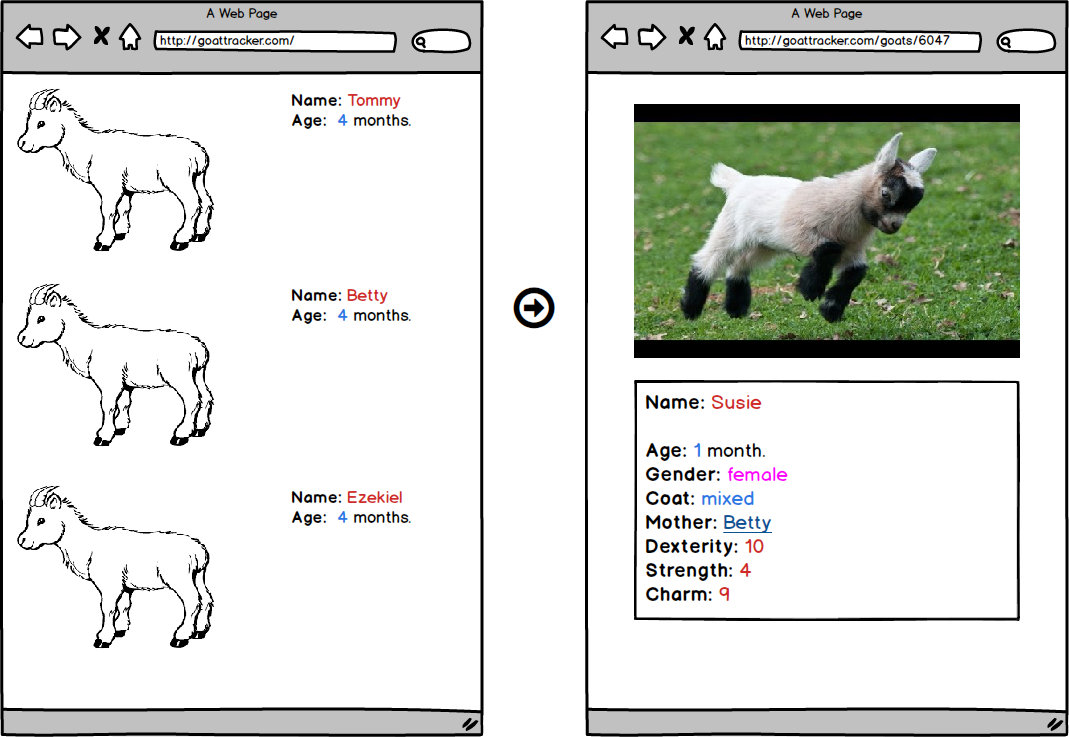
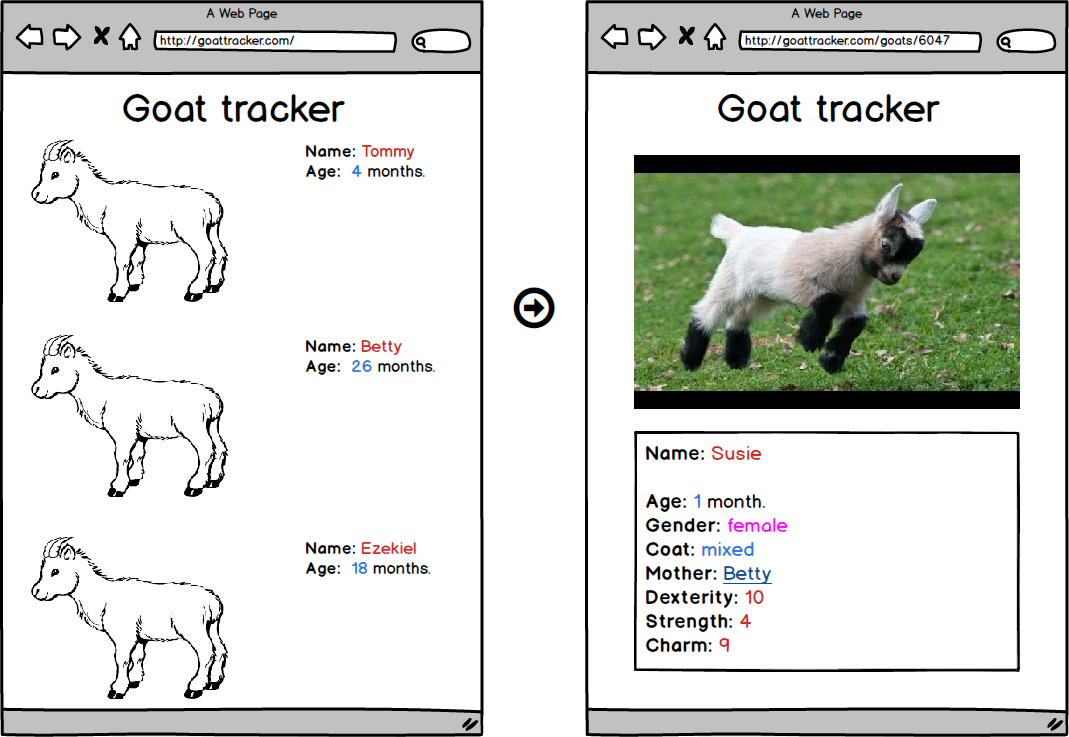
views & layouts & goats

diff --git a/03-angular-mean/ngRoute/27/README.md b/03-angular-mean/ngRoute/27/README.md
@@ -37,7 +37,37 @@ In the S.P.A.s you've built before, you've mostly stuck to just one URL: `localh
 
 **Now you can!**
 
-Take a look at the URLs in the goat-app above.  Notice how they indicate where we're at?  We're going to use **ngRoute** to add this feature today.
+Take a look at the URLs in the goat-app above.  Notice how they indicate where we're at?  We're going to use a front-end/client-side router to add this feature today.  
+
+#### What does a client-side router do?
+
+1. It ties the URL in the browser to the **state** of the current page.
+ 
+   If a user comes back to the same URL, they get to see the same **view**(s).
+1. It lets us use **views** and **layouts**.  
+
+
+#### Views & Layouts
+
+Most apps have a certain amount of content that appears on every page.  It might be:
+
+* a menu
+* a header
+* a sidebar
+* a footer
+
+![http://www.funnyant.com/angularjs-ui-router/](http://www.funnyant.com/wp-content/uploads/2014/12/multiple-views-sketch-1024x768.jpg)  - [image credit](http://www.funnyant.com/wp-content/uploads/2014/12/multiple-views-sketch-1024x768.jpg)
+
+
+Using a **view template** we can keep the content that *changes* in each page separate from the static content.
+
+The content that stays the same will live in our **layout**.  In other words, maybe our *sidebar*, *footer*, and *title* all stay the same.  We keep that in the layout.  The content that we change, depending on the URL, goes into a **view template**.  
+
+In our goat-app above we have a **"Goat Tracker"** title on each page.  That can be in our main layout.  Then we just apply a different **view** when viewing the list of goats or a goat *show* page.  The goat **index** template or **show** template is *injected* into the layout.
+
+> Note: Some client-side routers allow you to have multiple views per layout. (ui-router, Component Router)
+> Others do not (ngRoute)
+
 
 ## ngRoute background
 
